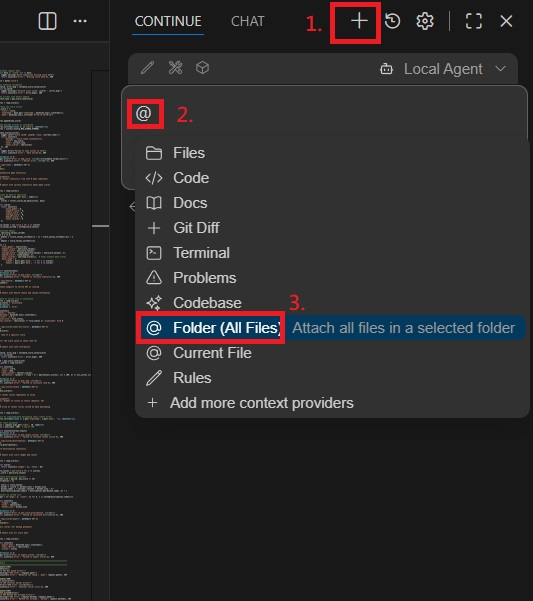
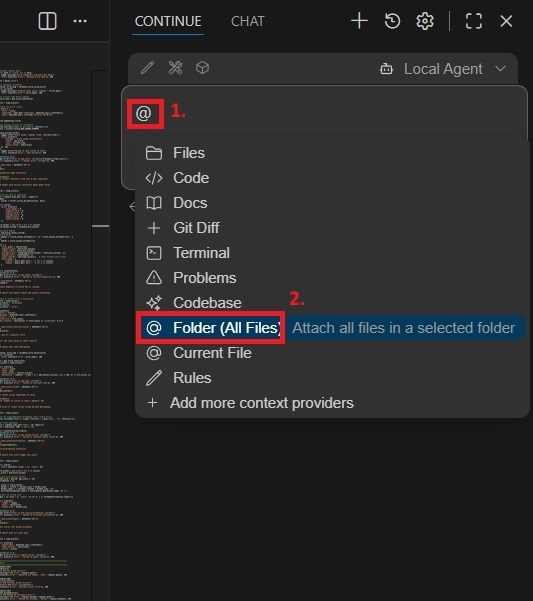
doc: update User_Guide.md

diff --git a/aiDAPTIV_Files/User_Guide/User_Guide.md b/aiDAPTIV_Files/User_Guide/User_Guide.md
@@ -142,9 +142,17 @@ Once the kvcache build is complete, you're ready to experience the power of Phis
 
 **a. Use the Chat Window**
 
-- Navigate to the **Continue** chat panel, and select the example code folder
-  ![toggle_folder](./img/toggle_folder.jpg)
-  ![select_folder](./img/select_folder.jpg)
+1. **Select Mode and Model**
+   - Navigate to the **Continue** chat panel
+   - Select **Chat** as the mode
+   - Select **Inference** as the model
+     ![select_role](./img/select_role.jpg)
+
+2. **Select Target Folder**
+   - Type `@{folder}` in the chat input box
+   - Choose the example code folder from the dropdown list
+     ![toggle_folder](./img/toggle_folder.jpg)
+     ![select_folder](./img/select_folder.jpg)
 
 - In the input box, type your question using the following format:
 
